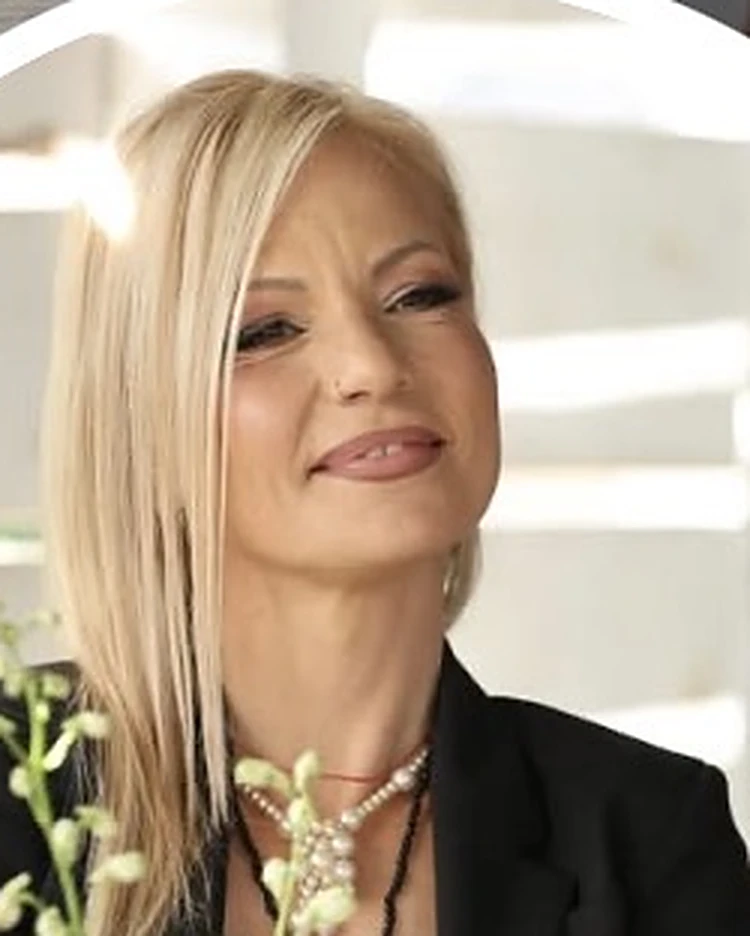
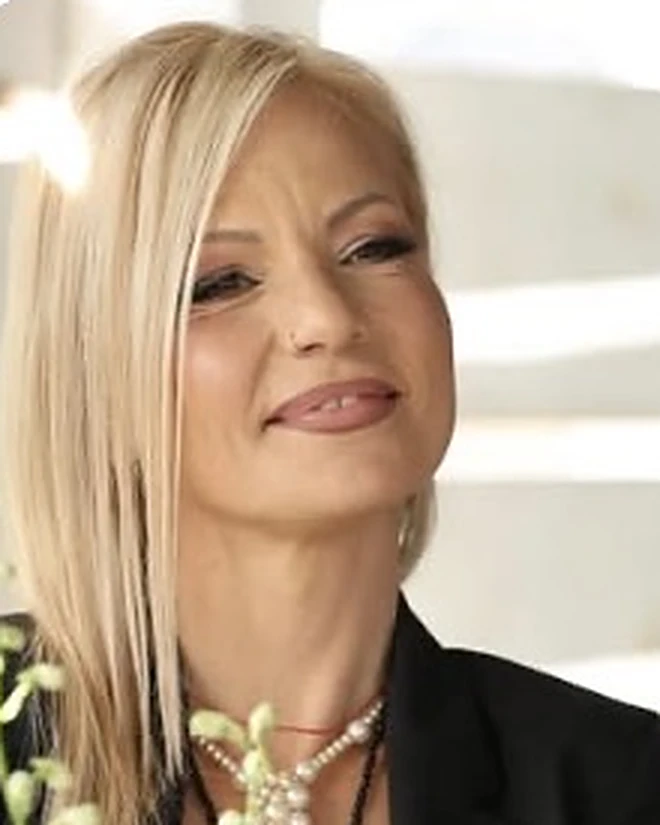
Utisci: Željka kadar bez ivice

diff --git a/public/index.html b/public/index.html
@@ -113,7 +113,7 @@
   </div>
 </section>
 <script src="/kamen/embed.js?v=8" defer></script>
-<section id="utisci" aria-label="Utisci mačkica"><link rel="stylesheet" href="/utisci/utisci.css?v=27"><div class="u-head"><div class="u-k">Utisci mačkica</div><h2>Žene koje već nose <em>svoj kamen</em></h2><p class="u-sub">Žene koje znaju šta žele: preduzetnice, mame i žene koje stvaraju. Svaka je izabrala svoj kamen. Evo šta kažu.</p></div><div class="u-row"><article class="u-c" tabindex="0"><img src="/assets/utisci/marija.webp?v=1" alt="Marija" loading="lazy" decoding="async" style="object-position:50% 30%"><div class="u-t"><blockquote class="u-q">„Moj Crni Ahat, moja amajlija. Nosim ga, umiruje me.“</blockquote><div class="u-by">— <b>Marija</b>, <span>Salon Ceance</span></div><a class="u-ig" href="https://www.instagram.com/salonseance/" target="_blank" rel="noopener">@salonseance</a></div></article><article class="u-c" tabindex="0"><img src="/assets/utisci/svetlana.webp?v=1" alt="Svetlana" loading="lazy" decoding="async" style="object-position:50% 22%"><div class="u-t"><blockquote class="u-q">„Oni koji me znaju, znaju da obožavam autentičan nakit stvoren sa pričom, maštom i ljubavlju.“</blockquote><div class="u-by">— <b>Svetlana</b>, <span>NLP trener</span></div><a class="u-ig" href="https://www.instagram.com/svetlana_ceca_lolic/" target="_blank" rel="noopener">@svetlana_ceca_lolic</a></div></article><article class="u-c" tabindex="0"><img src="/assets/utisci/danica.webp?v=1" alt="Danica" loading="lazy" decoding="async" style="object-position:50% 22%"><div class="u-t"><blockquote class="u-q">„Uzela sam je pred put u Tbilisi. Prelepa je. Prošetala sam je Gruzijom, slikala i snimala.“</blockquote><div class="u-by">— <b>Danica</b>, <span>Tehnika hidraulike</span></div><a class="u-ig" href="https://www.instagram.com/tehnikahidraulike.st.doo/" target="_blank" rel="noopener">@tehnikahidraulike.st.doo</a></div></article><article class="u-c" tabindex="0"><img src="/assets/utisci/milica.webp?v=1" alt="Milica" loading="lazy" decoding="async" style="object-position:50% 25%"><div class="u-t"><blockquote class="u-q">„Fenomenalna je. Ništa ne bih menjala.“</blockquote><div class="u-by">— <b>Milica</b></div><a class="u-ig" href="https://www.instagram.com/micaa1985/" target="_blank" rel="noopener">@micaa1985</a></div></article><article class="u-c" tabindex="0"><img src="/assets/utisci/ivana.webp?v=1" alt="Ivana" loading="lazy" decoding="async" style="object-position:50% 30%"><div class="u-t"><blockquote class="u-q">„Prelepo. Moj je lepši od tvog.“</blockquote><div class="u-by">— <b>Ivana</b>, <span>Ramovi i dekoracije</span></div><a class="u-ig" href="https://www.instagram.com/ramovi_dekor_beograd/" target="_blank" rel="noopener">@ramovi_dekor_beograd</a></div></article><article class="u-c" tabindex="0"><img src="/assets/utisci/brankica2.webp?v=1" alt="Brankica" loading="lazy" decoding="async" style="object-position:50% 25%"><div class="u-t"><blockquote class="u-q">„Zeleni Aventurin za još malo vilinske magije.“</blockquote><div class="u-by">— <b>Brankica</b>, <span>Veterinar</span></div><a class="u-ig" href="https://www.instagram.com/brankica_vila/" target="_blank" rel="noopener">@brankica_vila</a></div></article><article class="u-c" tabindex="0"><img src="/assets/utisci/zeljka4.webp?v=2" alt="Željka" loading="lazy" decoding="async" style="object-position:50% 0%"><div class="u-t"><blockquote class="u-q">„Volim misleći i kreativni um.“</blockquote><div class="u-by">— <b>Željka</b>, <span>Nutricionista</span></div><a class="u-ig" href="https://www.instagram.com/houseof_joybarajevo/" target="_blank" rel="noopener">@houseof_joybarajevo</a></div></article><article class="u-c" tabindex="0"><img src="/assets/utisci/milica-sunka.webp?v=1" alt="Milica" loading="lazy" decoding="async" style="object-position:50% 40%"><div class="u-t"><blockquote class="u-q">„Sestrić mi je rekao da liči na šunku na vratu. Nosim je.“</blockquote><div class="u-by">— <b>Milica</b></div><a class="u-ig" href="https://www.instagram.com/mujerquemata/" target="_blank" rel="noopener">@mujerquemata</a></div></article></div></section>
+<section id="utisci" aria-label="Utisci mačkica"><link rel="stylesheet" href="/utisci/utisci.css?v=28"><div class="u-head"><div class="u-k">Utisci mačkica</div><h2>Žene koje već nose <em>svoj kamen</em></h2><p class="u-sub">Žene koje znaju šta žele: preduzetnice, mame i žene koje stvaraju. Svaka je izabrala svoj kamen. Evo šta kažu.</p></div><div class="u-row"><article class="u-c" tabindex="0"><img src="/assets/utisci/marija.webp?v=1" alt="Marija" loading="lazy" decoding="async" style="object-position:50% 30%"><div class="u-t"><blockquote class="u-q">„Moj Crni Ahat, moja amajlija. Nosim ga, umiruje me.“</blockquote><div class="u-by">— <b>Marija</b>, <span>Salon Ceance</span></div><a class="u-ig" href="https://www.instagram.com/salonseance/" target="_blank" rel="noopener">@salonseance</a></div></article><article class="u-c" tabindex="0"><img src="/assets/utisci/svetlana.webp?v=1" alt="Svetlana" loading="lazy" decoding="async" style="object-position:50% 22%"><div class="u-t"><blockquote class="u-q">„Oni koji me znaju, znaju da obožavam autentičan nakit stvoren sa pričom, maštom i ljubavlju.“</blockquote><div class="u-by">— <b>Svetlana</b>, <span>NLP trener</span></div><a class="u-ig" href="https://www.instagram.com/svetlana_ceca_lolic/" target="_blank" rel="noopener">@svetlana_ceca_lolic</a></div></article><article class="u-c" tabindex="0"><img src="/assets/utisci/danica.webp?v=1" alt="Danica" loading="lazy" decoding="async" style="object-position:50% 22%"><div class="u-t"><blockquote class="u-q">„Uzela sam je pred put u Tbilisi. Prelepa je. Prošetala sam je Gruzijom, slikala i snimala.“</blockquote><div class="u-by">— <b>Danica</b>, <span>Tehnika hidraulike</span></div><a class="u-ig" href="https://www.instagram.com/tehnikahidraulike.st.doo/" target="_blank" rel="noopener">@tehnikahidraulike.st.doo</a></div></article><article class="u-c" tabindex="0"><img src="/assets/utisci/milica.webp?v=1" alt="Milica" loading="lazy" decoding="async" style="object-position:50% 25%"><div class="u-t"><blockquote class="u-q">„Fenomenalna je. Ništa ne bih menjala.“</blockquote><div class="u-by">— <b>Milica</b></div><a class="u-ig" href="https://www.instagram.com/micaa1985/" target="_blank" rel="noopener">@micaa1985</a></div></article><article class="u-c" tabindex="0"><img src="/assets/utisci/ivana.webp?v=1" alt="Ivana" loading="lazy" decoding="async" style="object-position:50% 30%"><div class="u-t"><blockquote class="u-q">„Prelepo. Moj je lepši od tvog.“</blockquote><div class="u-by">— <b>Ivana</b>, <span>Ramovi i dekoracije</span></div><a class="u-ig" href="https://www.instagram.com/ramovi_dekor_beograd/" target="_blank" rel="noopener">@ramovi_dekor_beograd</a></div></article><article class="u-c" tabindex="0"><img src="/assets/utisci/brankica2.webp?v=1" alt="Brankica" loading="lazy" decoding="async" style="object-position:50% 25%"><div class="u-t"><blockquote class="u-q">„Zeleni Aventurin za još malo vilinske magije.“</blockquote><div class="u-by">— <b>Brankica</b>, <span>Veterinar</span></div><a class="u-ig" href="https://www.instagram.com/brankica_vila/" target="_blank" rel="noopener">@brankica_vila</a></div></article><article class="u-c" tabindex="0"><img src="/assets/utisci/zeljka4.webp?v=3" alt="Željka" loading="lazy" decoding="async" style="object-position:50% 0%"><div class="u-t"><blockquote class="u-q">„Volim misleći i kreativni um.“</blockquote><div class="u-by">— <b>Željka</b>, <span>Nutricionista</span></div><a class="u-ig" href="https://www.instagram.com/houseof_joybarajevo/" target="_blank" rel="noopener">@houseof_joybarajevo</a></div></article><article class="u-c" tabindex="0"><img src="/assets/utisci/milica-sunka.webp?v=1" alt="Milica" loading="lazy" decoding="async" style="object-position:50% 40%"><div class="u-t"><blockquote class="u-q">„Sestrić mi je rekao da liči na šunku na vratu. Nosim je.“</blockquote><div class="u-by">— <b>Milica</b></div><a class="u-ig" href="https://www.instagram.com/mujerquemata/" target="_blank" rel="noopener">@mujerquemata</a></div></article></div></section>
 <script src="/utisci/utisci.js?v=19" defer></script>
 
 <sc-if value="{{ chipTxt }}" hint-placeholder-val="{{ false }}">
